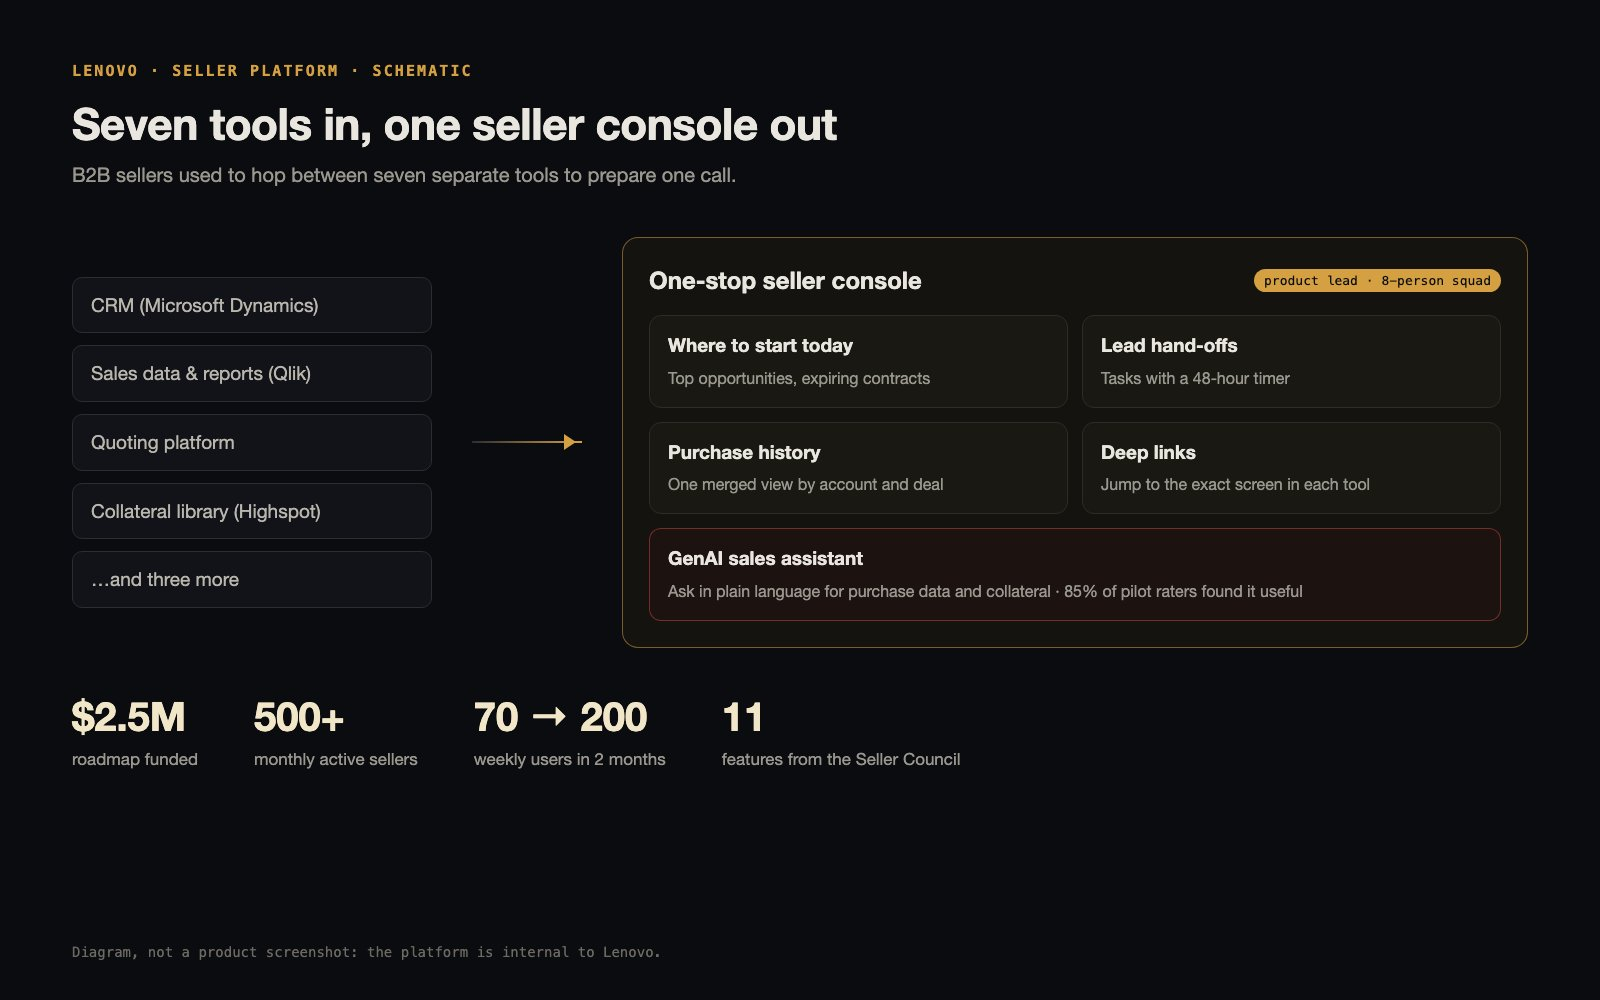
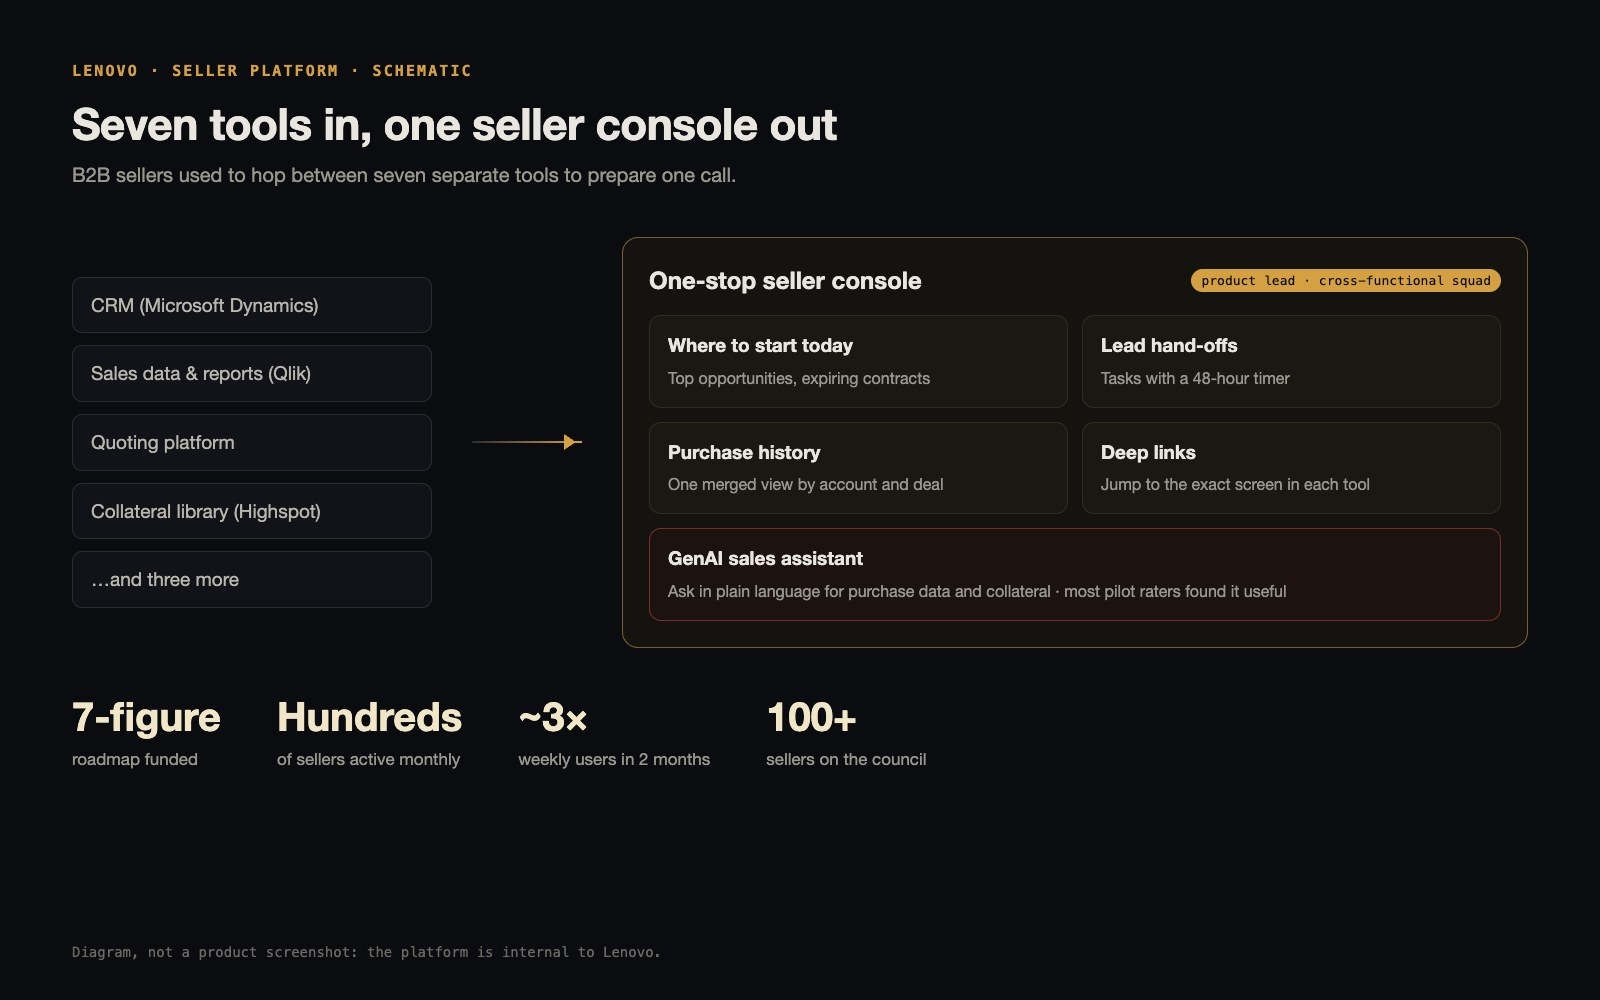
Lenovo card: blurred figures in copy and schematic

Changed region(s): [[0.0312, 0.682, 0.5938, 0.775], [0.75, 0.248, 0.9062, 0.31], [0.6562, 0.589, 0.8125, 0.62]]

diff --git a/shared/content.js b/shared/content.js
@@ -20,14 +20,15 @@ export const PROFILE = {
 };
 
 export const PROJECTS = [
+  // 2026-11-06 Austin: internal platform — figures deliberately blurred on the public site (exact numbers stay in the resume)
   { id: 'lenovo', name: 'Lenovo Seller Platform', kicker: 'Enterprise · internal B2B sales platform',
-    title: 'One console for 1,200 B2B sellers, replacing a seven-tool hop',
-    impact: '$2.5M roadmap funded · 500+ monthly active sellers · 85% rated the GenAI pilot useful',
-    description: "Product lead (no direct reports) for Lenovo's one-stop seller platform. Turned seller pain points into a 3-year roadmap, won $2.5M through four months of VP and director workshops, and led an 8-person Design/SWE/IT squad to ship it.",
+    title: 'One console for over a thousand B2B sellers, replacing a seven-tool hop',
+    impact: 'Seven-figure roadmap funded · hundreds of sellers active monthly · GenAI pilot rated useful by most',
+    description: "Product lead (no direct reports) for Lenovo's one-stop seller platform. Turned seller pain points into a multi-year roadmap, won seven-figure funding through months of VP and director workshops, and led a cross-functional Design/SWE/IT squad to ship it.",
     details: [
-      'Built a 100+ seller council that tested every release; weekly users went 70 → 200 in two months',
-      'Started a GenAI sales assistant for purchase data and collateral; VP approved global rollout after a 3-week pilot',
-      'Earlier: rescued a delayed ML prospecting tool; sellers reported 6 deals worth $10M in a quarter (Dream Team Award)',
+      'Built a seller council of 100+ that tested every release; weekly users nearly tripled in two months',
+      'Started a GenAI sales assistant for purchase data and collateral; a VP approved global rollout after a short pilot',
+      'Earlier: rescued a delayed ML prospecting tool; sellers credited it with eight-figure deal flow in its first quarter (Dream Team Award)',
     ],
     tech: ['Microsoft Dynamics', 'Qlik', 'GenAI · text-to-SQL', 'Jira'],
     year: '2022–2025', role: 'Product lead (official title: DT Business Process Design Sr. Specialist)',
